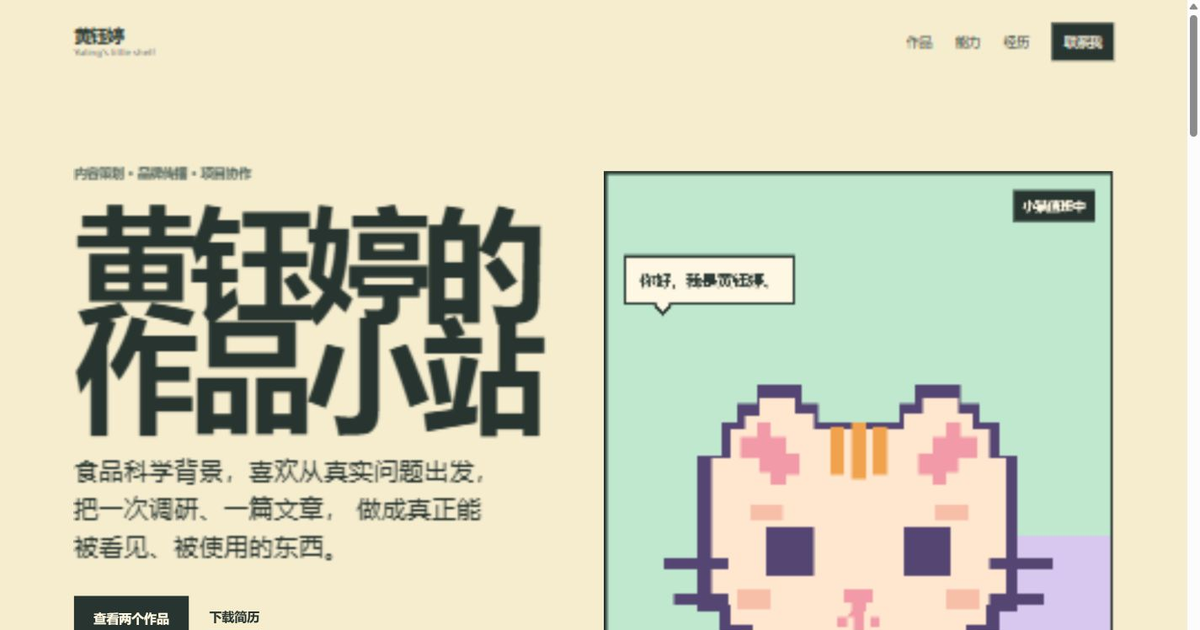
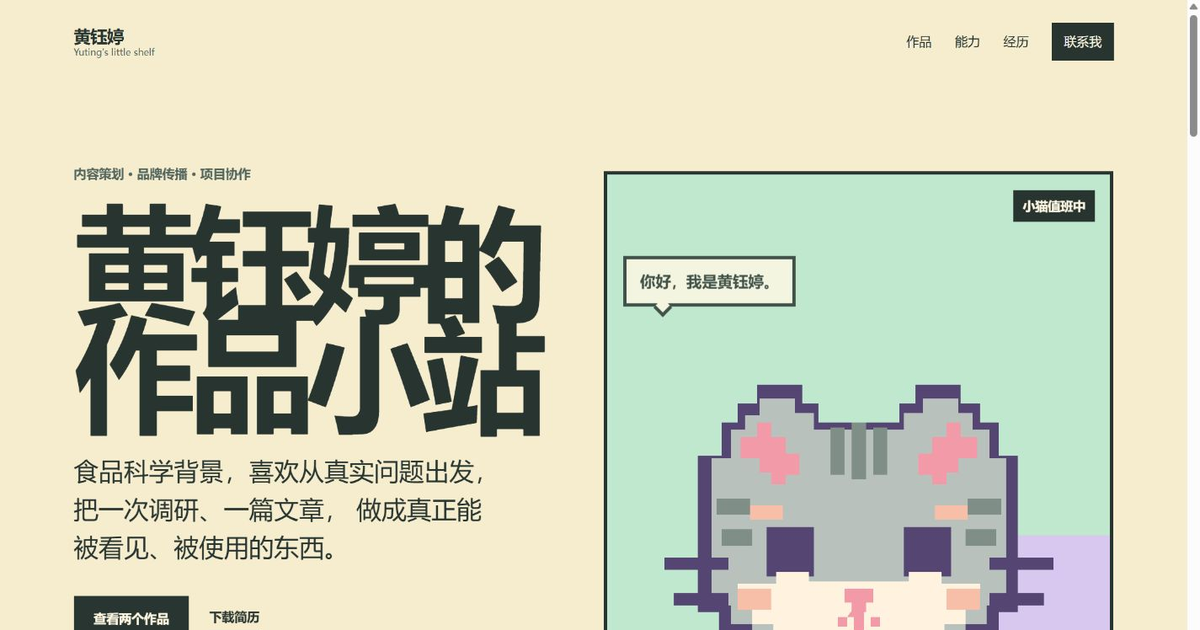
Preserve gray tabby markings in pixel cat

diff --git a/index.html b/index.html
@@ -68,7 +68,7 @@
           <span class="cat-bubble" data-cat-message>你好，我是黄钰婷。</span>
           <svg class="cat-portrait" viewBox="0 0 360 320" role="img" aria-labelledby="cat-title cat-desc">
             <title id="cat-title">一只像素 Q 版美短小猫头像</title>
-            <desc id="cat-desc">奶油色圆脸、紫色粗轮廓、粉色耳朵和腮红、橙色额纹，整体由干净的大色块组成。</desc>
+            <desc id="cat-desc">灰色虎斑美短圆脸、紫色粗轮廓、粉色耳朵和腮红、深灰额纹，整体由干净的大色块组成。</desc>
             <g shape-rendering="crispEdges">
               <path
                 d="M64 68H78V52H94V36H132V52H146V68H214V52H228V36H266V52H282V68H298V96H314V228H298V246H278V260H258V270H102V260H82V246H62V228H44V96H64Z"
@@ -76,20 +76,23 @@
               />
               <path
                 d="M72 74H84V62H96V48H126V60H142V74H218V60H234V48H264V60H276V74H290V98H304V222H288V238H270V252H254V260H106V252H90V238H72V222H56V98H72Z"
-                fill="#ffe6cf"
+                fill="#b9c1bd"
               />
 
               <path d="M80 80H94V68H106V80H118V94H130V112H118V120H106V110H96V98H80Z" fill="#f29aa8"/>
               <path d="M280 80H266V68H254V80H242V94H230V112H242V120H254V110H264V98H280Z" fill="#f29aa8"/>
 
-              <path d="M156 72H168V112H156Z" fill="#f1a24d"/>
-              <path d="M174 68H186V116H174Z" fill="#f1a24d"/>
-              <path d="M192 72H204V112H192Z" fill="#f1a24d"/>
+              <path d="M156 72H168V112H156Z" fill="#7f8f87"/>
+              <path d="M174 68H186V116H174Z" fill="#7f8f87"/>
+              <path d="M192 72H204V112H192Z" fill="#7f8f87"/>
+              <path d="M60 132H88V146H60ZM64 158H90V172H64Z" fill="#7f8f87"/>
+              <path d="M300 132H272V146H300ZM296 158H270V172H296Z" fill="#7f8f87"/>
 
               <path d="M102 156H142V198H102Z" fill="#544573"/>
               <path d="M218 156H258V198H218Z" fill="#544573"/>
               <path d="M88 138H116V150H88ZM244 138H272V150H244Z" fill="#f7bea8"/>
 
+              <path d="M78 204H110V194H138V202H222V194H250V204H282V224H270V238H252V248H108V238H90V224H78Z" fill="#fff3df"/>
               <path d="M168 208H192V220H186V228H174V220H168Z" fill="#f29aa8"/>
               <path d="M176 224H184V232H198V240H190V232H184V244H176V232H170V240H162V232H170Z" fill="#f29aa8"/>
 
